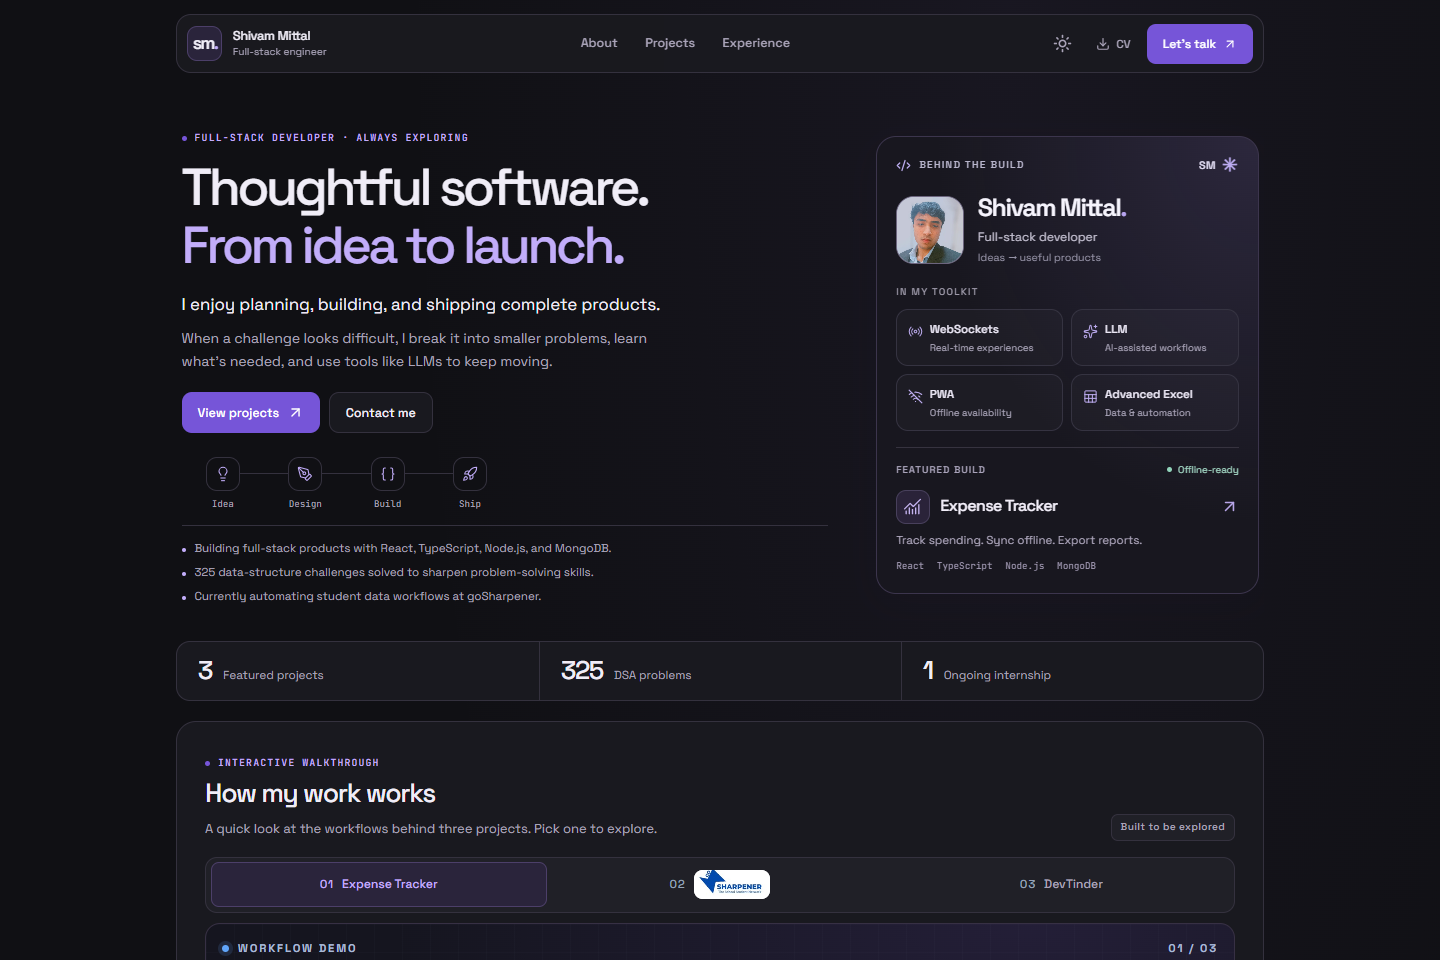
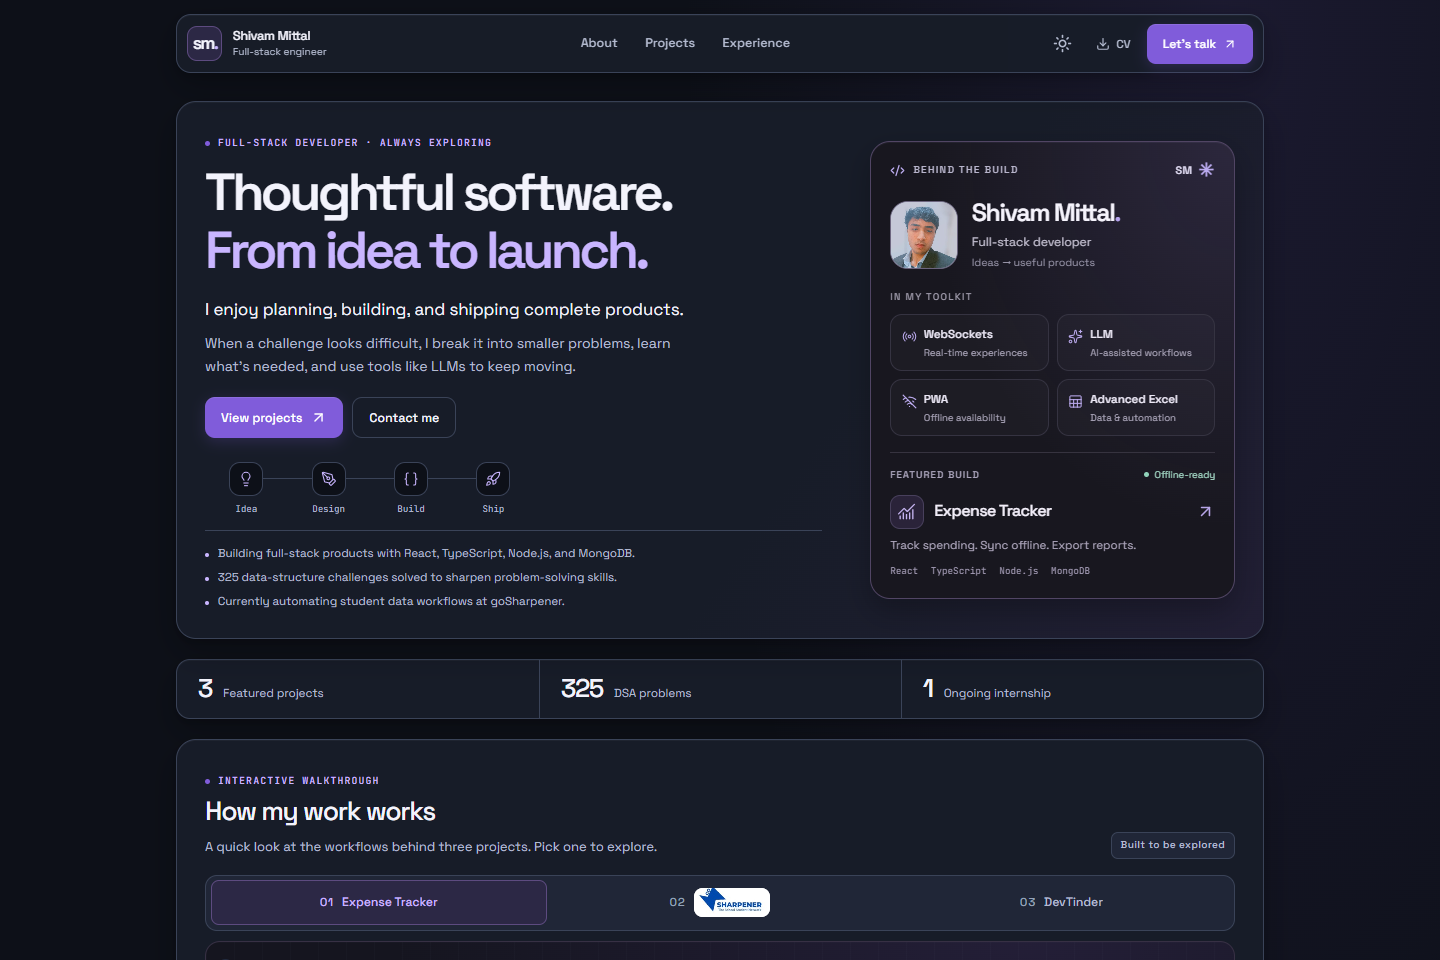
Polish light and dark themes with defined borders and subtle shadows

diff --git a/my-portfolio/my-app/src/studio.css b/my-portfolio/my-app/src/studio.css
@@ -276,6 +276,111 @@ html[data-theme="dark"] :is(.toolkit-icon, .toolkit-tag-accent) { background: va
 .site-footer .footer-bottom p { color: var(--text-muted); font-size: 0.62rem; }
 .footer-bottom span { margin-left: 0.4rem; color: var(--accent-ink); }
 
+/* Light surfaces have clear edges and a little depth against the neutral canvas. */
+html:not([data-theme="dark"]) .site-frame {
+  background: radial-gradient(ellipse at 85% 0, rgba(112, 73, 208, 0.075), transparent 34rem), var(--bg-page);
+}
+
+html:not([data-theme="dark"]) :is(.hero-section, .page-intro) {
+  border: 1px solid var(--border-soft);
+  border-radius: 20px;
+  padding: clamp(1.1rem, 2.5vw, 1.75rem);
+  background: linear-gradient(125deg, #fff 65%, #f7f4fd);
+  box-shadow: var(--shadow-soft);
+}
+
+html:not([data-theme="dark"]) :is(.hero-copy .section-title, .page-intro h1) {
+  font-weight: 600;
+}
+
+html:not([data-theme="dark"]) .hero-stats {
+  box-shadow: 0 2px 4px rgba(31, 27, 49, 0.03), 0 6px 16px rgba(31, 27, 49, 0.045);
+}
+
+html:not([data-theme="dark"]) :is(.toolkit-card, .mini-project-card, .practice-section article) {
+  box-shadow: 0 2px 5px rgba(31, 27, 49, 0.035);
+}
+
+html:not([data-theme="dark"]) .experience-card {
+  box-shadow: var(--shadow-soft);
+}
+
+html:not([data-theme="dark"]) .contact-overview-grid {
+  gap: 0.85rem;
+  margin-top: 0.85rem;
+}
+
+html:not([data-theme="dark"]) .contact-overview-grid > .section-shell {
+  border: 1px solid var(--border-soft);
+  border-radius: 16px;
+  padding: 1rem;
+  background: var(--bg-surface);
+  box-shadow: 0 2px 5px rgba(31, 27, 49, 0.035);
+}
+
+html:not([data-theme="dark"]) .contact-form-section {
+  margin-top: 0;
+}
+
+html:not([data-theme="dark"]) :is(.hero-primary, .site-contact-cta, .contact-primary-action, .contact-form-footer button:not(:disabled)) {
+  box-shadow: 0 3px 8px rgba(89, 52, 181, 0.18);
+}
+
+/* Dark panels use lifted charcoal surfaces, fine highlights, and lavender accents. */
+html[data-theme="dark"] .site-frame {
+  background: radial-gradient(ellipse at 85% 0, rgba(132, 96, 224, 0.12), transparent 34rem), var(--bg-page);
+}
+
+html[data-theme="dark"] :is(.hero-section, .page-intro) {
+  border: 1px solid var(--border-soft);
+  border-radius: 20px;
+  padding: clamp(1.1rem, 2.5vw, 1.75rem);
+  background: linear-gradient(125deg, var(--bg-surface) 60%, #211e34);
+  box-shadow: var(--shadow-soft);
+}
+
+html[data-theme="dark"] :is(.hero-copy .section-title, .page-intro h1) {
+  font-weight: 600;
+}
+
+html[data-theme="dark"] :is(.hero-stats, .experience-card) {
+  box-shadow: var(--shadow-soft);
+}
+
+html[data-theme="dark"] :is(.toolkit-card, .mini-project-card, .practice-section article) {
+  box-shadow: inset 0 1px 0 rgba(255, 255, 255, 0.025), 0 3px 8px rgba(0, 0, 0, 0.12);
+}
+
+html[data-theme="dark"] .hero-portrait {
+  border-color: #514564;
+  box-shadow: inset 0 1px 0 rgba(201, 181, 255, 0.06), 0 12px 28px rgba(0, 0, 0, 0.25);
+}
+
+html[data-theme="dark"] .contact-overview-grid {
+  gap: 0.85rem;
+  margin-top: 0.85rem;
+}
+
+html[data-theme="dark"] .contact-overview-grid > .section-shell {
+  border: 1px solid var(--border-soft);
+  border-radius: 16px;
+  padding: 1rem;
+  background: var(--bg-surface);
+  box-shadow: inset 0 1px 0 rgba(255, 255, 255, 0.035), 0 3px 8px rgba(0, 0, 0, 0.12);
+}
+
+html[data-theme="dark"] .contact-form-section {
+  margin-top: 0;
+}
+
+html[data-theme="dark"] :is(.hero-primary, .site-contact-cta, .contact-primary-action, .contact-form-footer button:not(:disabled)) {
+  box-shadow: inset 0 1px 0 rgba(255, 255, 255, 0.1), 0 4px 14px rgba(132, 96, 224, 0.2);
+}
+
+html[data-theme="dark"] .case-study summary:is(:hover, :focus-visible) {
+  color: var(--accent-ink);
+}
+
 @media (max-width: 1023px) {
   .hero-layout { grid-template-columns: minmax(0, 1fr) minmax(0, 0.8fr); gap: 1.5rem; }
   .hero-copy .section-title { font-size: 2.5rem; }

diff --git a/my-portfolio/my-app/src/theme.css b/my-portfolio/my-app/src/theme.css
@@ -1,35 +1,35 @@
 /* The same neutral surfaces and violet accents carry through both themes. */
 :root {
   color-scheme: light;
-  --bg-page: #f6f5f8;
+  --bg-page: #eef0f5;
   --bg-surface: #ffffff;
-  --bg-card: #f8f7fb;
-  --border-soft: #e3e0e9;
-  --text-primary: #25212f;
-  --text-muted: #70697e;
-  --accent: #7655d8;
-  --accent-strong: #6341bf;
-  --accent-ink: #7050bb;
-  --accent-soft: #f0ecfa;
-  --accent-line: #d9cff0;
-  --nav-surface: rgba(255, 255, 255, 0.88);
-  --shadow-soft: 0 4px 20px rgba(40, 30, 65, 0.025);
+  --bg-card: #f5f5fa;
+  --border-soft: #ced2df;
+  --text-primary: #231e33;
+  --text-muted: #59566b;
+  --accent: #7049d0;
+  --accent-strong: #5934b5;
+  --accent-ink: #633bb8;
+  --accent-soft: #eee8fb;
+  --accent-line: #c7b7e8;
+  --nav-surface: rgba(255, 255, 255, 0.96);
+  --shadow-soft: 0 2px 4px rgba(31, 27, 49, 0.035), 0 12px 30px rgba(31, 27, 49, 0.065);
 }
 html[data-theme="dark"] {
   color-scheme: dark;
-  --bg-page: #101014;
-  --bg-surface: #19191f;
-  --bg-card: #202027;
-  --border-soft: #34313e;
-  --text-primary: #f0edf7;
-  --text-muted: #aaa4b9;
-  --accent: #7655d8;
-  --accent-strong: #6843c6;
-  --accent-ink: #c2adfa;
-  --accent-soft: #2a243b;
-  --accent-line: #4c3f69;
-  --nav-surface: rgba(25, 25, 31, 0.9);
-  --shadow-soft: none;
+  --bg-page: #0d1018;
+  --bg-surface: #171c28;
+  --bg-card: #202637;
+  --border-soft: #3a4358;
+  --text-primary: #f3f3fc;
+  --text-muted: #b4bbd0;
+  --accent: #805cda;
+  --accent-strong: #7048cc;
+  --accent-ink: #c9b5ff;
+  --accent-soft: #2c2845;
+  --accent-line: #5d4b80;
+  --nav-surface: rgba(23, 28, 40, 0.96);
+  --shadow-soft: inset 0 1px 0 rgba(255, 255, 255, 0.035), 0 3px 8px rgba(0, 0, 0, 0.18), 0 14px 32px rgba(0, 0, 0, 0.22);
 }
 
 /* Bridge content utility colors to the shared theme. Keep demo canvases independent. */

diff --git a/MANUAL_REVIEW.md b/MANUAL_REVIEW.md
@@ -1,8 +1,12 @@
 # Website manual review — 20 October 2026
 
-Reviewed the local production website at `http://127.0.0.1:4185` using browser-driven interactions and visual inspection of fresh screenshots. Every public page was included. One new accessibility defect was confirmed; the tested navigation, forms, galleries, walkthroughs, downloads, and offline flows passed.
+Reviewed the local production website at `http://127.0.0.1:4185` using browser-driven interactions and visual inspection of fresh screenshots. Every public page was included. The accessibility defect found in this review has now been fixed as part of the dark-theme improvements; the original finding and evidence are retained below.
 
-## Finding
+## Fix verification — 20 October 2026
+
+Dark-mode case-study summaries now use the theme's lavender foreground when hovered or visibly focused. All three projects passed hover, expanded-state, and keyboard-focus checks in Chrome and Edge, with contrast above 4.5:1. The refreshed dark theme also passed all five routes at 1440, 768, 390, and 320 px in Chrome and at desktop/mobile widths in Edge, with no page errors. Gallery controls, theme persistence, light-palette regression checks, and short landscape navigation passed. Evidence: [dark-theme results](.tmp/dark-theme/results.json).
+
+## Original finding — resolved
 
 ### [P2] Case-study hover labels lose contrast in dark mode
 
